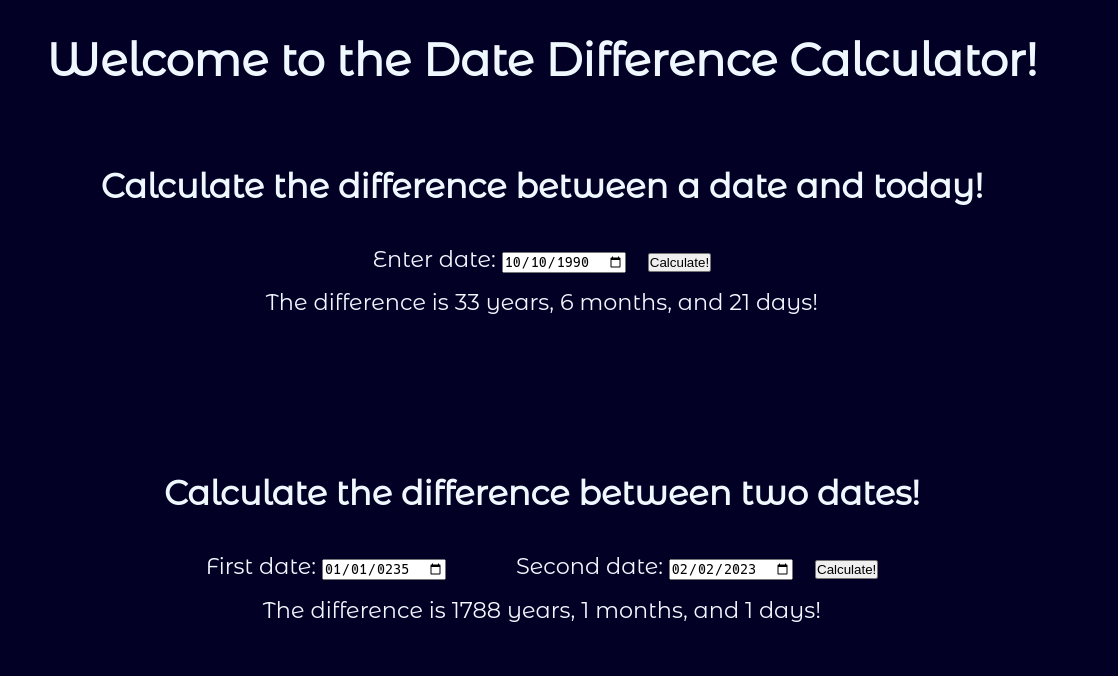
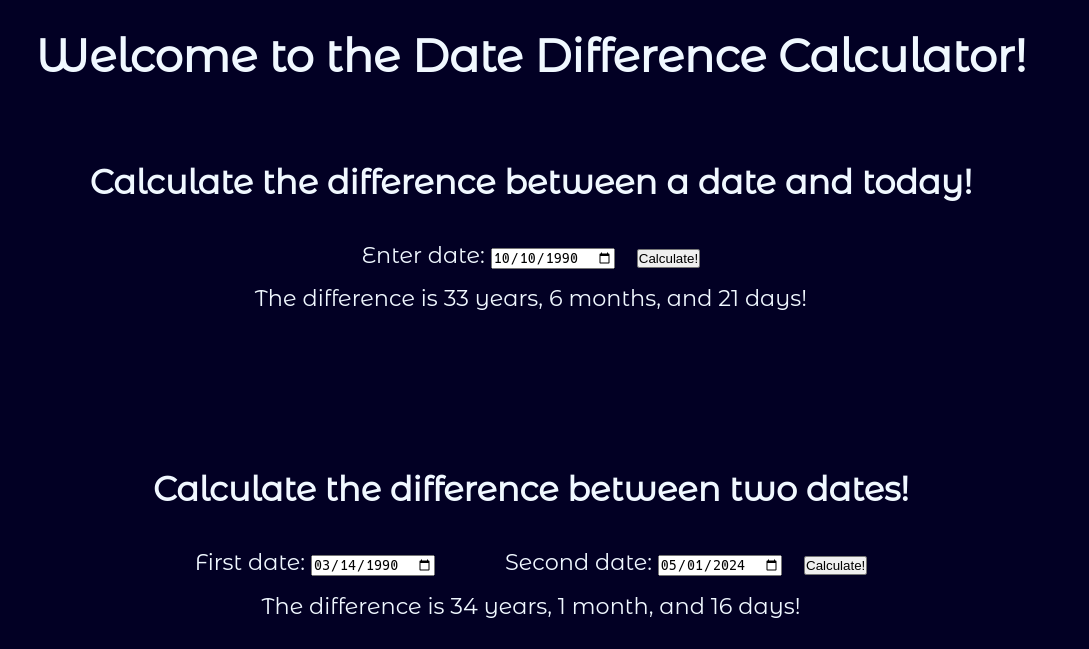
Fixed singular endings for words

diff --git a/ccalculator.js b/ccalculator.js
@@ -28,14 +28,22 @@ function makeMaxDate() {
 onlyDateBtn.addEventListener("click", () => {
     onlyDateVal = moment(onlyDate.value);
     differenceSingle = moment.preciseDiff(onlyDateVal, moment(), true);
-    oneDateOutput.innerText = `The difference is ${differenceSingle.years} years, ${differenceSingle.months} months, and ${differenceSingle.days} days!`
+    let yearsPlural, monthsPlural, daysPlural;
+    yearsPlural = differenceSingle.years != 1 ? "s" : "";
+    monthsPlural = differenceSingle.months != 1 ? "s" : "";
+    daysPlural = differenceSingle.days != 1 ? "s" : "";
+    oneDateOutput.innerText = `The difference is ${differenceSingle.years} year${yearsPlural}, ${differenceSingle.months} month${monthsPlural}, and ${differenceSingle.days} day${daysPlural}!`
 });
 
 twoDatesBtn.addEventListener("click", () => {
     firstDateVal = moment(firstDate.value);
     secondDateVal = moment(secondDate.value);
     differenceDouble = moment.preciseDiff(firstDateVal, secondDateVal, true);
-    twoDatesOutput.innerText = `The difference is ${differenceDouble.years} years, ${differenceDouble.months} months, and ${differenceDouble.days} days!`
+    let yearsPlural, monthsPlural, daysPlural;
+    yearsPlural = differenceDouble.years != 1 ? "s" : "";
+    monthsPlural = differenceDouble.months != 1 ? "s" : "";
+    daysPlural = differenceDouble.days != 1 ? "s" : "";
+    twoDatesOutput.innerText = `The difference is ${differenceDouble.years} year${yearsPlural}, ${differenceDouble.months} month${monthsPlural}, and ${differenceDouble.days} day${daysPlural}!`
 });
 
 document.getElementById("second-date").setAttribute("value", makeMaxDate());
